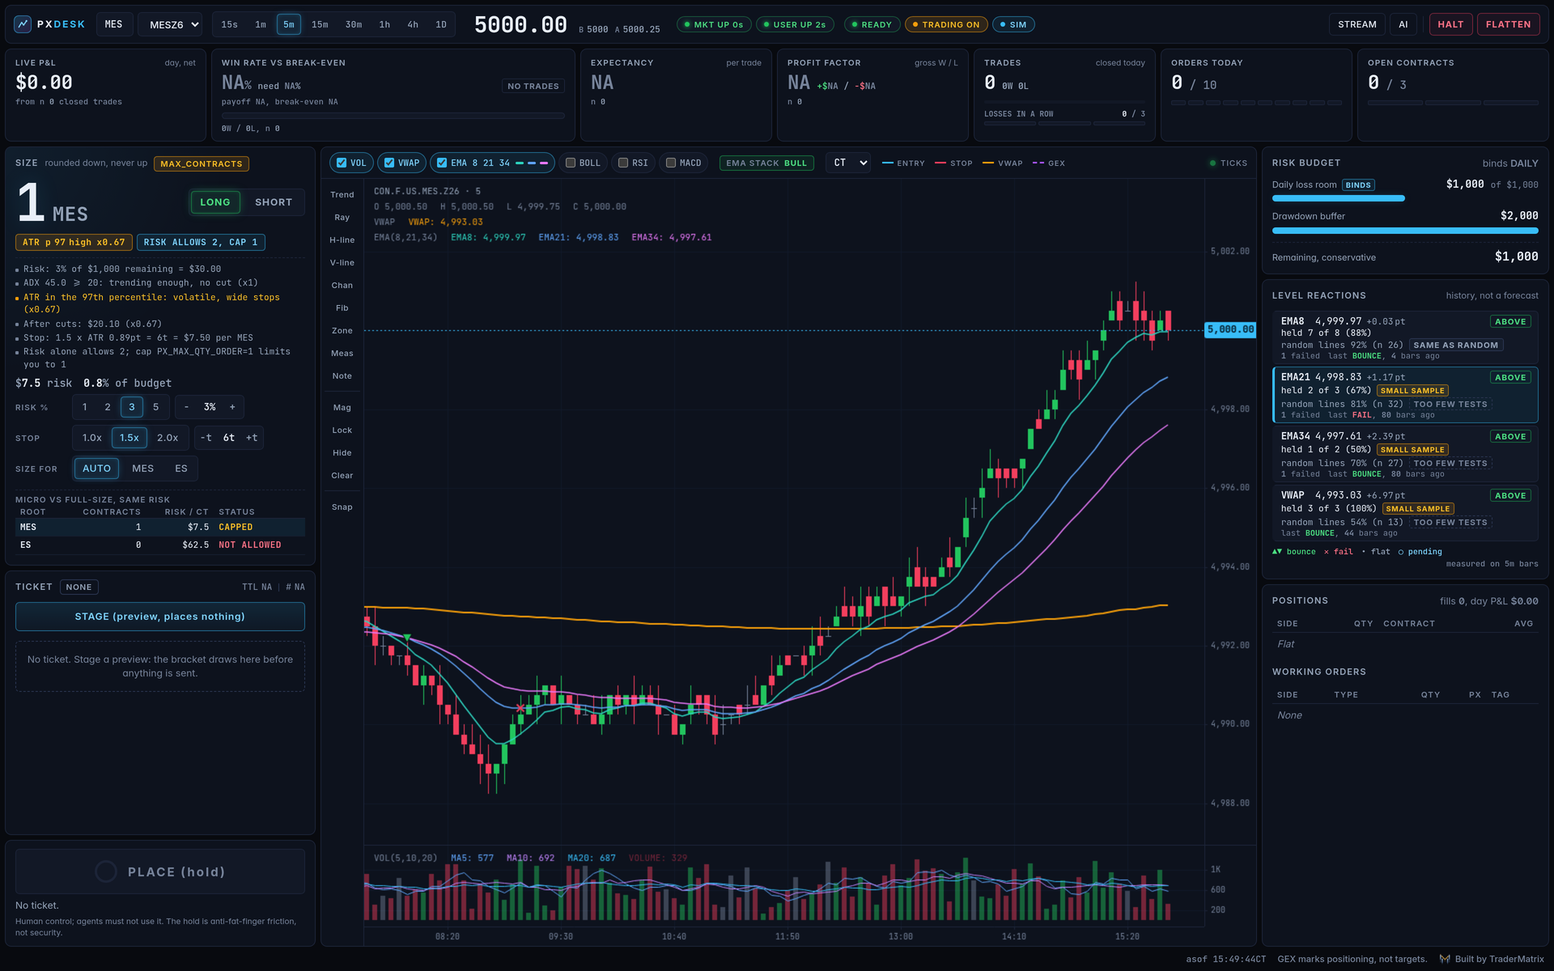
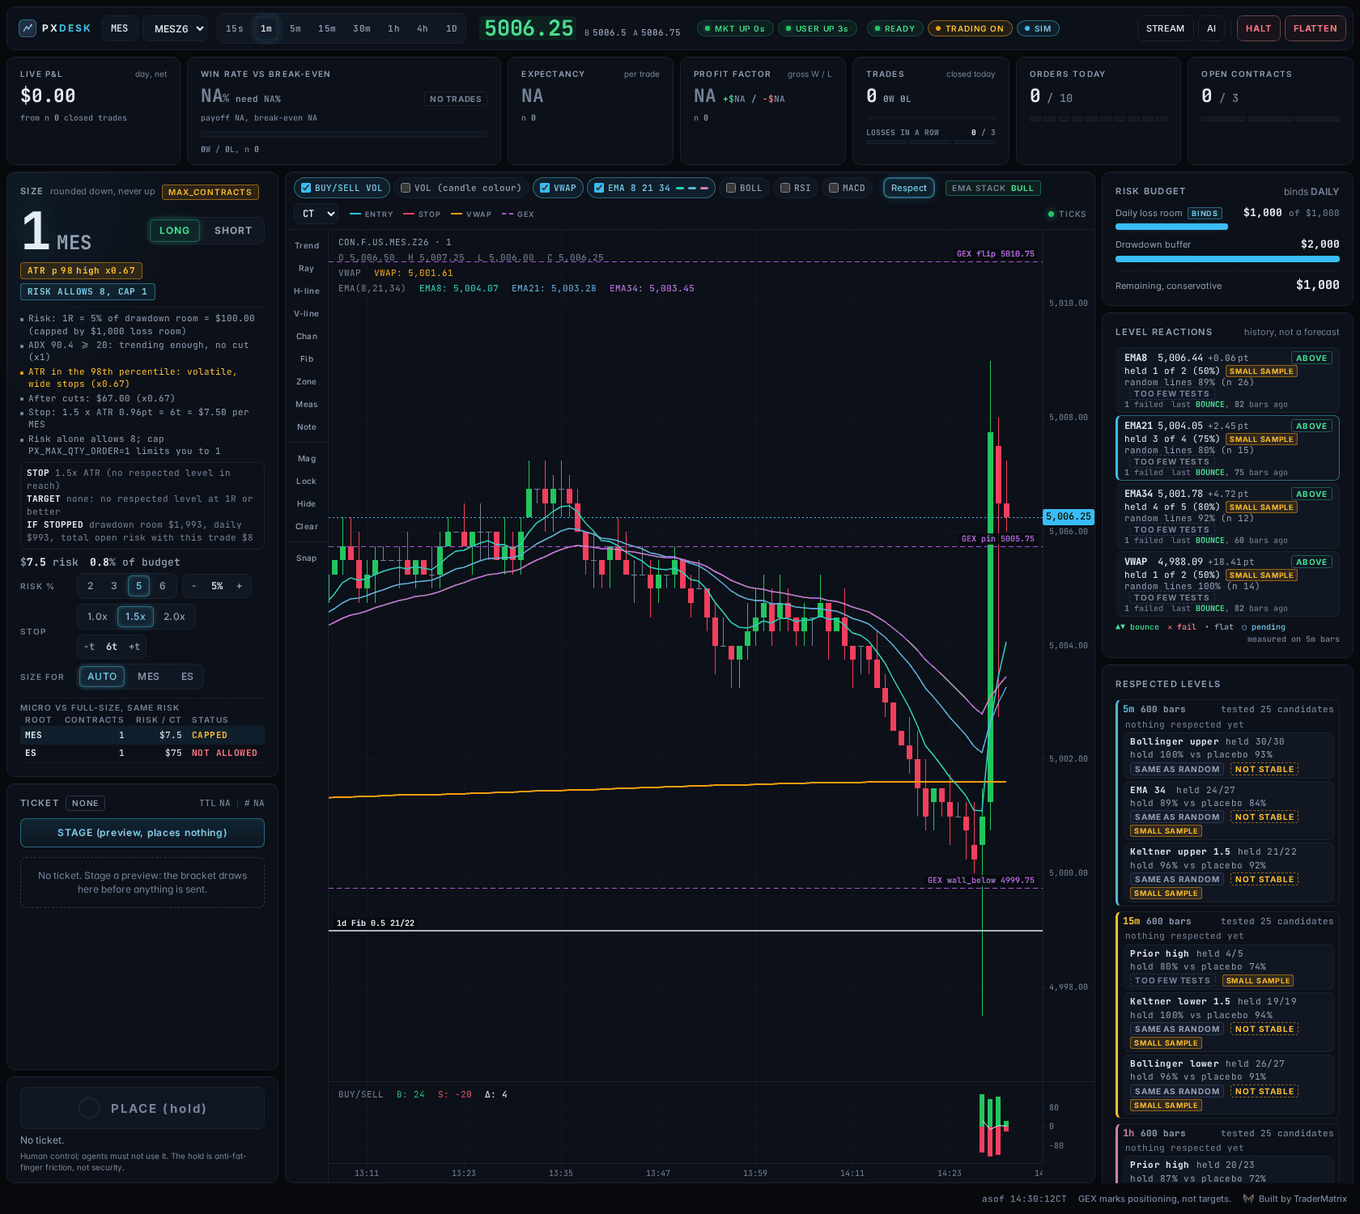
Screenshots from the offline mock desk via Playwright (scripts/screenshots.py); README rewritten around the current desk
- scripts/screenshots.py boots the mock gateway, a mock desk and two fake local feeds (callouts, GEX), then drives the real UI: analyst alert, STAGE, hold-to-place,
  fill, bracket tree, trade manager, stream mode, AI view, narrow layout. It never touches a real account, so nothing real is ever on screen
- docs/img regenerated (old ones showed the pre-redesign UI); demo.gif is rebuilt from the new frames (816 KB, was 4.1 MB)
- README: alpha notice reflects what has and has not been verified, new features, sizing note, GEX provider, gallery, run-as-a-service pointer
- requirements-screenshots.txt (playwright, Pillow) and an AGENTS.md line

diff --git a/scripts/screenshots.py b/scripts/screenshots.py
@@ -1,0 +1,207 @@
+#!/usr/bin/env python
+"""Regenerate the screenshots in docs/img from the OFFLINE MOCK desk. Nothing real is ever on screen.
+
+It boots the mock gateway and a desk pointed at it (no .env.projectx, a fake account), plus two tiny local fake feeds (analyst callouts and
+GEX), then drives the real UI with Playwright: an analyst ENTRY alert, STAGE, the hold-to-place gesture, the fill, the bracket tree, the
+trade manager, stream mode and the AI panel. The mock market is random, so numbers differ a little on every run.
+
+    pip install -r requirements-screenshots.txt && playwright install chromium
+    python scripts/screenshots.py            # writes docs/img/*.png
+
+Stream-safe by construction (AGENTS.md): it only talks to 127.0.0.1 ports it starts itself and refuses to run if `.env.projectx` values leak in.
+"""
+import io
+import json
+import os
+import pathlib
+import shutil
+import subprocess
+import sys
+import tempfile
+import threading
+import time
+import urllib.request
+from datetime import datetime, timedelta, timezone
+from http.server import BaseHTTPRequestHandler, HTTPServer
+
+ROOT = pathlib.Path(__file__).resolve().parent.parent
+OUT = ROOT / "docs" / "img"
+GW, DESK, FEED, GEXP = 8830, 8630, 8898, 8897
+BASE = f"http://127.0.0.1:{DESK}"
+MES, MNQ = "CON.F.US.MES.Z26", "CON.F.US.MNQ.Z26"
+
+
+def get(path):
+    with urllib.request.urlopen(BASE + path, timeout=10) as r:
+        return json.load(r)
+
+
+def ask(cid):
+    return get(f"/ai/state?contract={cid}")["quote"]["ask"]
+
+
+class Shared:
+    alert = False        # the callout feed stays empty until the script flips this
+    mes = 5000.0         # the GEX feed follows the mock MES price
+    mnq = 17500.0
+
+
+def serve(port, handler):
+    srv = HTTPServer(("127.0.0.1", port), handler)
+    threading.Thread(target=srv.serve_forever, daemon=True).start()
+    return srv
+
+
+class Callouts(BaseHTTPRequestHandler):
+    posted = datetime.now(timezone.utc)
+
+    def do_GET(self):
+        rows = []
+        if Shared.alert:
+            e = Shared.mnq
+            rows = [{"author_name": "@analyst", "channel_name": "futures-room", "posted_at": (Callouts.posted - timedelta(seconds=45)).isoformat(),
+                     "symbol": "MNQ", "side": None, "event": "ENTRY", "entry_px": e, "stop_px": round(e + 8, 2), "tp1_px": round(e - 16, 2),
+                     "tp2_px": None, "tp3_px": None, "result_points": None, "has_image": 0, "deleted": 0, "text": ""}]
+        body = json.dumps(rows).encode()
+        self.send_response(200); self.send_header("Content-Type", "application/json"); self.send_header("Content-Length", str(len(body))); self.end_headers()
+        shutil.copyfileobj(io.BytesIO(body), self.wfile)        # (the order-path pin forbids .write anywhere but the client)
+
+    def log_message(self, *a):
+        pass
+
+
+class Gex(BaseHTTPRequestHandler):
+    def do_GET(self):
+        s = Shared.mes - 1.0       # SPX-like spot one point under the futures price (additive basis)
+        lvl = lambda off, net, typ: {"strike": round(s + off, 2), "netGEX": net, "type": typ}
+        data = {"symbol": "SPX", "spotPrice": s, "gammaFlipLevel": round(s + 4.0, 2), "maxGammaStrike": round(s - 1.5),
+                "keyLevels": [lvl(-1.5, -2.9e9, "pin"), lvl(6.5, 1.2e9, "resistance"), lvl(-7.0, -8e8, "support")],
+                "lastUpdated": datetime.now(timezone.utc).isoformat(), "interpretation": {"marketRegime": "Negative Gamma"}}
+        body = json.dumps({"success": True, "data": data, "cached": False}).encode()
+        self.send_response(200); self.send_header("Content-Type", "application/json"); self.send_header("Content-Length", str(len(body))); self.end_headers()
+        shutil.copyfileobj(io.BytesIO(body), self.wfile)        # (the order-path pin forbids .write anywhere but the client)
+
+    def log_message(self, *a):
+        pass
+
+
+def make_gif():
+    """docs/img/demo.gif: a few of the screenshots in order, small enough for a README (no screen recording needed)."""
+    from PIL import Image
+    frames, names = [], ["desk-idle.png", "ui-analyst-alert.png", "ui-ticket-preview.png", "desk-in-trade.png", "ui-stream-mode.png"]
+    for n in names:
+        p = OUT / n
+        if p.exists():
+            im = Image.open(p).convert("RGB")
+            if im.width > 1100:
+                im = im.resize((1100, round(im.height * 1100 / im.width)))
+            frames.append(im.quantize(colors=96, method=Image.Quantize.MEDIANCUT))
+    if len(frames) > 1:
+        w = max(f.width for f in frames); h = max(f.height for f in frames)
+        frames = [f if f.size == (w, h) else f.crop((0, 0, w, h)) for f in frames]
+        frames[0].save(OUT / "demo.gif", save_all=True, append_images=frames[1:], duration=2600, loop=0, optimize=True)
+
+
+def main():
+    from playwright.sync_api import sync_playwright
+    tmp = pathlib.Path(tempfile.mkdtemp(prefix="pxshots-"))
+    env = {k: v for k, v in os.environ.items() if not k.startswith(("PX_", "PROJECTX", "TD_"))}
+    env.update({
+        "PROJECTX_API": f"http://127.0.0.1:{GW}", "PROJECTX_HUB_BASE": f"ws://127.0.0.1:{GW}/hubs", "PROJECTX_USERNAME": "dev", "PROJECTX_API_KEY": "dev",
+        "PX_ACCOUNT_ID": "4242", "PX_ACCOUNT_KIND": "sim", "PX_BRACKET_MODE": "position", "PX_DAILY_LOSS_LIMIT": "1000", "PX_DRAWDOWN_BUFFER": "2000",
+        "PX_NO_NEW_AFTER": "16:55", "PX_TRADING": "1", "CHART_PORT": str(DESK), "PX_NO_ENV_FILE": "1", "PX_MCP_TOKEN": "",
+        "PX_STATE_PATH": str(tmp / "day.json"), "PX_INTENT_PATH": str(tmp / "intents.json"), "PX_AUDIT_PATH": str(tmp / "audit.jsonl"),
+        "PX_HALT_FILE": str(tmp / "HALT"), "PX_FLOW_FILE": str(tmp / "flow.json"), "PYTHONUNBUFFERED": "1",
+        "PX_FEED_URL": f"http://127.0.0.1:{FEED}/analyst-callouts", "PX_FEED_KEY": "demo",
+        "PX_GEX_URL": f"http://127.0.0.1:{GEXP}/api/v1", "PX_GEX_KEY": "demo", "DEV_GATEWAY_PORT": str(GW),
+    })
+    py = ROOT / ".venv" / "bin" / "python"
+    py = str(py if py.exists() else sys.executable)
+    procs = [subprocess.Popen([py, "-m", "projectx_desk.dev_gateway"], cwd=ROOT, env=env, stdout=subprocess.DEVNULL, stderr=subprocess.DEVNULL)]
+    srvs = [serve(FEED, Callouts), serve(GEXP, Gex)]
+    try:
+        time.sleep(3)
+        procs.append(subprocess.Popen([py, "-m", "projectx_desk"], cwd=ROOT, env=env, stdout=subprocess.DEVNULL, stderr=subprocess.DEVNULL))
+        for _ in range(60):
+            try:
+                urllib.request.urlopen(BASE + "/healthz", timeout=2); break
+            except Exception:
+                time.sleep(0.5)
+        Shared.mes, Shared.mnq = ask(MES), ask(MNQ)
+        OUT.mkdir(parents=True, exist_ok=True)
+        with sync_playwright() as pw:
+            b = pw.chromium.launch()
+            page = b.new_page(viewport={"width": 1680, "height": 1500})
+            shot = lambda name, loc=None, **kw: (page.locator(loc).screenshot(path=str(OUT / name)) if loc else page.screenshot(path=str(OUT / name), **kw))
+            page.goto(BASE + "/")
+            page.wait_for_selector("#chart canvas", timeout=30000)
+            page.click('#tfs button[data-v="minute,1"]')       # 1m bars so a few buy/sell volume bars exist within a few minutes
+            time.sleep(int(os.getenv("PX_SHOTS_WARMUP", "200")))     # let the mock market print: tape bars, GEX, EMA stack
+            Shared.mes = ask(MES)
+            time.sleep(8)
+            shot("desk-idle.png")
+            shot("ui-size-box.png", "#size")
+            shot("ui-chart-gex.png", "#chart")
+            # the analyst posts an ENTRY: banner, chart switch, callout lines, STAGE button
+            Shared.mnq = ask(MNQ)
+            Shared.alert = True
+            page.wait_for_selector("#callout-alert:not([hidden]) .ca-go", timeout=60000)
+            time.sleep(1.5)
+            shot("ui-analyst-alert.png")
+            page.click(".ca-go")                             # STAGE: same preview path and checks as the normal button
+            page.wait_for_selector("#tree:not([hidden])", timeout=15000)
+            time.sleep(1)
+            shot("ui-ticket-preview.png", "#ticket")
+            btn = page.locator("#place-btn")                 # PLACE is a 600 ms hold, never a click
+            btn.scroll_into_view_if_needed()
+            time.sleep(2.5)                                  # the ticket must have been on screen a moment before the hold counts
+            placed = False
+            for how in ("mouse", "key"):
+                if how == "mouse":
+                    box = btn.bounding_box()
+                    page.mouse.move(box["x"] + box["width"] / 2, box["y"] + box["height"] / 2)
+                    page.mouse.down(); time.sleep(1.0); page.mouse.up()
+                else:
+                    btn.focus(); page.keyboard.down("Space"); time.sleep(1.0); page.keyboard.up("Space")
+                time.sleep(4)
+                if page.locator("#tree-mode").inner_text().strip().upper() != "PREVIEW":
+                    placed = True
+                    break
+            if not placed:
+                print("PLACE did not complete:", page.evaluate("placeReady()"))
+            time.sleep(6)                                    # fill, then the stop is sent and acknowledged
+            shot("ui-bracket-tree.png", "#ticket")
+            if page.locator("#manage:not([hidden])").count():
+                shot("ui-manage-trade.png", "#manage")
+            shot("desk-in-trade.png")
+            page.click("#stream-toggle"); time.sleep(2.5)
+            shot("ui-stream-mode.png")
+            page.click("#stream-toggle")
+            page.click("#ai-toggle"); time.sleep(2.5)
+            page.evaluate("document.getElementById('ai-panel').style.cssText = 'flex:none;height:560px'")   # it is a flex child that collapses to its title bar
+            page.locator("#ai-panel").scroll_into_view_if_needed(); time.sleep(1)
+            shot("ui-ai-digest.png", "#ai-panel")
+            page.set_viewport_size({"width": 430, "height": 900}); time.sleep(2)
+            shot("ui-narrow.png", full_page=False)
+            b.close()
+        try:
+            from PIL import Image
+            for p in OUT.glob("*.png"):
+                im = Image.open(p).convert("RGB")
+                im.quantize(colors=200, method=Image.Quantize.MEDIANCUT).save(p, optimize=True)
+        except ImportError:
+            pass
+        try:
+            make_gif()
+        except ImportError:
+            pass
+        print("wrote", sorted(p.name for p in OUT.glob("*.png")))
+    finally:
+        for s in srvs:
+            s.shutdown()
+        for p in procs:
+            p.terminate()
+
+
+if __name__ == "__main__":
+    main()

diff --git a/README.md b/README.md
@@ -25,7 +25,12 @@ and locks you out after a losing streak. Free, MIT, runs offline on a practice m
 
 **Who it is for:** futures traders on prop-firm evals (the funded-account tests) who want position sizing and discipline
 enforced for them, and optionally an AI assistant that can watch the desk and stage ideas but can never place an order.
-No signals. No auto-trading.
+No signals of its own. No auto-trading.
+
+**What is in it:** one guarded order path (a test fails the build if any other file can place an order); sizing off your loss limit
+with an ATR stop that tucks beyond a level price has respected; **real buy and sell volume** built from the trade tape, plus 1024, 2048
+and 4096-trade tick charts; GEX levels drawn on the chart; and an **analyst-callout alert** that flashes when a fresh futures entry
+posts, switches the chart to it when you are flat, and offers a one-click STAGE (you still hold PLACE yourself).
 
 **Terms:** *R* is the amount you risk on a trade. *ATR* is how far price typically moves. *STAGE* drafts an order; nothing
 is sent until you hold *PLACE*. *MCP* is a standard way for AI assistants to use tools. More in the [glossary](#glossary).
@@ -34,9 +39,11 @@ is sent until you hold *PLACE*. *MCP* is a standard way for AI assistants to use
 
 <p align="center"><sub>Practice market with synthetic prices. Nothing on screen is a result.</sub></p>
 
-> **Alpha. Not financial advice.** Tested against the built-in practice market only. Not yet run against a real TopstepX
-> account, and real accounts are blocked until you turn them on. Read [what is unverified](docs/LIMITATIONS.md) before you
-> point it at anything.
+> **Alpha. Not financial advice.** The order path is tested against the built-in practice market only: **no order has ever been placed
+> through a real gateway.** The read side (login, quotes, the trade tape, bars, both hubs) has been run against a real TopstepX Combine
+> simulated account. Real accounts are blocked until you turn them on. Read [what is unverified](docs/LIMITATIONS.md) before you
+> point it at anything. The code has been reviewed by several AI models and one agent audit ([the results](docs/AUDIT_2026-10-16.md)),
+> not yet by a human futures-execution engineer.
 
 ## Try it in two minutes (no account needed)
 
@@ -78,14 +85,19 @@ arithmetic, not the result.
 |---|---|
 | **It sizes every trade** | From your remaining daily-loss and drawdown room and a stop set by ATR. It always rounds **down**. If one contract risks more than your budget it says `REFUSED`; it never rounds up. |
 | **It tells you why** | The size box lists its reasons: your risk %, the ADX and ATR cuts, the stop math, what risk alone would allow versus your cap. |
-| **It gets smaller, never bigger** | Choppy market (ADX under 20, meaning no clear trend) or very volatile (ATR in the top fifth of its recent range): risk is cut. Unknown inputs cut it too. Nothing scales risk up. |
+| **It gets smaller, never bigger** | Choppy market (ADX under 20, meaning no clear trend) or very volatile (ATR in the top fifth of its recent range): risk can be cut. Unknown inputs cut it too. Nothing scales risk up. The ATR cut double-counts a wide ATR stop, so many people switch both cuts off with `PX_SIZE_SCALERS=0` ([why](docs/SIZING.md)). |
 | **Guardrails** | Cooldown after a loss, lockout after 3 losses in a row, and after a loss your risk can't exceed what that trade risked. Defaults are settings. |
 | **A stop is required** | Sent right after the fill and watched for 5 seconds; if it is not acknowledged, the desk flattens and halts. If the live feed misses the fill, no stop is sent, so read the limits. |
 | **Manage the trade** | Live open R, plus one-click stop moves (breakeven, ATR trail, EMA 21 trail). Stops only move toward price, never wider. |
 | **Stats with the fine print** | Win rate sits next to the win rate you need to break even, with the trade count and a SMALL SAMPLE flag under 30 trades. |
 | **Respected levels** | For 5m, 15m, 1h, 4h and 1d: which of about 25 candidate levels (EMAs, SMAs, Keltner, Bollinger, VWAP, prior day or week, swing fibs) price has actually reacted to, scored against a calibrated random baseline, with "tested K candidates" beside the winners and a STABLE badge only if the level passes in both halves of the data. Winners are drawn on the chart (toggle: Respect). History, not a forecast. |
-| **Timeframes** | Three mini charts (5m, 15m, 1h) with the full EMA ribbon 8/13/21/34/55/89 and a bias line: `ribbon N/5 BULL / BEAR / MIXED`, which EMAs price is above, and a BULLISH / BEARISH / NEUTRAL badge that needs the whole ribbon in order. |
+| **Timeframes** | The main chart opens on 5m (switch freely); two mini charts (15m, 1h) with the full EMA ribbon 8/13/21/34/55/89 and a bias line: `ribbon N/5 BULL / BEAR / MIXED`, which EMAs price is above, and a BULLISH / BEARISH / NEUTRAL badge that needs the whole ribbon in order. |
 | **Level reactions** | "Held 5 of 8" for EMA 8/21/34 and VWAP, next to the same test on copies of that line shifted 0.5 to 1.5 ATR away. Reaction history, not a forecast. |
+| **Real buy and sell volume** | A volume pane built from the trade tape's aggressor side (who hit the bid or the ask), not candle colour, plus delta. ProjectX has no tick history, so it records from the moment the desk starts, saves to disk, and shows a gap as a gap, never as a wrong number. |
+| **Tick charts** | 1024, 2048 and 4096-trade bars built from the same tape, each with its buy-minus-sell delta. |
+| **GEX on the chart** | Flip, pin and walls from the TraderDaddy API, converted to futures prices and drawn as labelled lines. Display only: they never feed sizing, stops or targets. |
+| **Analyst alert** | When a fresh futures ENTRY callout posts (Discord bot feed), a banner flashes, the chart switches to that contract if you are flat, the analyst's entry, stop and first target are drawn, and STAGE offers their trade through the normal ticket. PLACE is still your 600 ms hold. |
+| **Level-anchored stop and target** | The stop tucks just beyond a level price has respected (never tighter than 1.5x ATR, never wider than 2x); the target is the nearest respected level at 1R or better, with its R:R and break-even win rate. |
 | **Practice market** | A built-in mock ProjectX gateway with fills, resting stops, and switches that force timeouts, rejections and dropped feeds. |
 | **On camera** | Stream mode removes balance, P&L and risk dollars from the page. |
 | **AI-ready** | A plain-text digest and an MCP server for assistants. They can read and stage. Only you place. |
@@ -94,8 +106,9 @@ arithmetic, not the result.
 
 If you are on an eval, know what the numbers are:
 
-- **Daily loss and drawdown are numbers you type in.** The desk does not read your firm's limits, track a trailing floor,
-  count unrealised P&L, or model a consistency rule. Treat its budget as an upper bound that you keep updated.
+- **Daily loss is a number you type in, and you maintain the drawdown floor.** With `PX_MLL_FLOOR` the drawdown room follows your
+  live balance, but the desk does not read your firm's limits, compute Topstep's end-of-day trailing floor, count unrealised P&L,
+  or model a consistency rule. Treat its budget as an upper bound that you keep updated.
 - **Realised P&L only.** A large open loser is not counted until it closes.
 - Built for the ProjectX Gateway API that TopstepX uses. Other ProjectX-based firms may work; untested.
 
@@ -103,20 +116,43 @@ More in [known limitations](docs/LIMITATIONS.md).
 
 <table>
 <tr>
-<td width="33%"><img src="docs/img/ui-size-box.png" alt="Size box: 1 MES, the ADX and ATR cuts, risk allows 2 but the cap is 1, and every reason listed"></td>
-<td width="34%"><img src="docs/img/ui-bracket-tree.png" alt="Bracket tree: entry filled, stop acknowledged, open R ruler"></td>
+<td width="33%"><img src="docs/img/ui-size-box.png" alt="Size box: 1 MNQ, the reasons for the size, the stop and target, and what is left if the stop fills"></td>
+<td width="34%"><img src="docs/img/ui-bracket-tree.png" alt="Live bracket: entry filled, stop acknowledged"></td>
 <td width="33%"><img src="docs/img/ui-manage-trade.png" alt="Trade manager: open R and three stop buttons marked recommended, not earned yet, or not valid now"></td>
 </tr>
 <tr>
 <td><sub>Every size comes with its reasons.</sub></td>
-<td><sub>The entry, the stop, and where you are in R.</sub></td>
+<td><sub>The entry, the stop, and whether it is acknowledged.</sub></td>
 <td><sub>Stop moves that can only tighten.</sub></td>
 </tr>
 </table>
 
-![The whole desk, idle: no trades yet, so every statistic reads NA](docs/img/desk-idle.png)
+![The whole desk: chart with GEX lines, EMA ribbon and real buy/sell volume, the size box, risk budget and level reactions](docs/img/desk-idle.png)
 
-<sub>Practice market, synthetic prices, no trades. Nothing on screen is a result.</sub>
+<sub>Offline practice market (synthetic prices), flat. Nothing on screen is a result.</sub>
+
+![An analyst entry alert: the banner, the chart switched to the contract, the analyst's levels drawn, and a STAGE button](docs/img/ui-analyst-alert.png)
+
+<sub>A fresh analyst entry: the banner flashes, the chart switches to that contract when you are flat, their entry and stop are drawn, and STAGE
+drafts the trade through the normal ticket. Placing is still a 600 ms hold by you.</sub>
+
+![In a trade: manage panel, live bracket with an acknowledged stop, and the stop and entry lines on the chart](docs/img/desk-in-trade.png)
+
+<table>
+<tr>
+<td width="50%"><img src="docs/img/ui-stream-mode.png" alt="Stream mode: dollar amounts and percentages hidden"></td>
+<td width="25%"><img src="docs/img/ui-ai-digest.png" alt="The AI view: the plain-text digest an assistant reads"></td>
+<td width="25%"><img src="docs/img/ui-narrow.png" alt="The desk on a narrow screen"></td>
+</tr>
+<tr>
+<td><sub>Stream mode hides balance, P&amp;L and risk dollars.</sub></td>
+<td><sub>What an AI assistant reads.</sub></td>
+<td><sub>Narrow screens.</sub></td>
+</tr>
+</table>
+
+<sub>Screenshots are regenerated from the offline mock desk by <code>scripts/screenshots.py</code> (Playwright; see
+<code>requirements-screenshots.txt</code>). They never show a real account.</sub>
 
 ## Connect an AI assistant
 
@@ -192,7 +228,10 @@ Login needs the pair `PROJECTX_USERNAME` + `PROJECTX_API_KEY`. `PROJECTX_USERNAM
 platform with (TopstepX): not your email, not an account name or id. Both go in `.env.projectx`.
 
 Start on a simulated account with `PX_TRADING=0` so the desk can look but not place. Step-by-step:
-[docs/GETTING_STARTED_LIVE.md](docs/GETTING_STARTED_LIVE.md). Check your firm's rules on automation first.
+[docs/GETTING_STARTED_LIVE.md](docs/GETTING_STARTED_LIVE.md). Check your firm's rules on automation first. Run it with
+`python -m projectx_desk` from the checkout. Because the buy/sell volume and tick charts are recorded live and ProjectX keeps no tick history,
+**every minute the desk is not running is a gap you cannot fill**: run it as a service so closing a terminal does not stop it
+([docs/DEPLOY.md](docs/DEPLOY.md)).
 
 <details>
 <summary><b>How it is built</b></summary>
@@ -213,9 +252,9 @@ pytest -q            # run offline against the practice market, no broker and no
 <summary><b>GEX on futures</b></summary>
 
 `projectx_desk/gex_futures.py` converts dealer-gamma levels (flip, pin, walls) from SPX, SPY, QQQ, IWM and DIA into ES, NQ, RTY and YM
-price space. It refuses stale data, never picks between two flips, and fetches nothing: bring your own levels.
-[TraderMatrix](https://www.tradermatrix.pro) computes GEX, and its free AI-tool (MCP) integration lets developers pull its
-GEX data into their own assistant. The desk does not ship a provider yet. See [docs/GEX_FUTURES.md](docs/GEX_FUTURES.md).
+price space. It refuses stale data and never picks between two flips. `projectx_desk/gex.py` is the provider: it pulls the levels from the
+[TraderMatrix / TraderDaddy](https://www.tradermatrix.pro) API (set `PX_GEX_KEY`), draws them on the chart and lists them in the AI digest.
+Display only: GEX marks positioning, not targets, and never touches sizing, stops or orders. See [docs/GEX_FUTURES.md](docs/GEX_FUTURES.md).
 </details>
 
 <details id="glossary">
@@ -240,6 +279,7 @@ GEX data into their own assistant. The desk does not ship a provider yet. See [d
 Other ProjectX / TopstepX work worth knowing about: [tsxapi4py](https://github.com/mceesincus/tsxapi4py),
 [projectx-sdk-python](https://github.com/ChristianJStarr/projectx-sdk-python),
 [projectx-api](https://github.com/rundef/projectx-api) (Python),
+[project-x-py](https://github.com/TexasCoding/project-x-py) (Python),
 [projectx-rs](https://github.com/SharurTrading/projectx-rs) (Rust),
 [MarqSpec.Mcp.TopstepX](https://github.com/adammarquette/MarqSpec.Mcp.TopstepX) (an MCP server) and
 [topstepx-skill](https://github.com/blindsipher/topstepx-skill) (a Claude skill).
